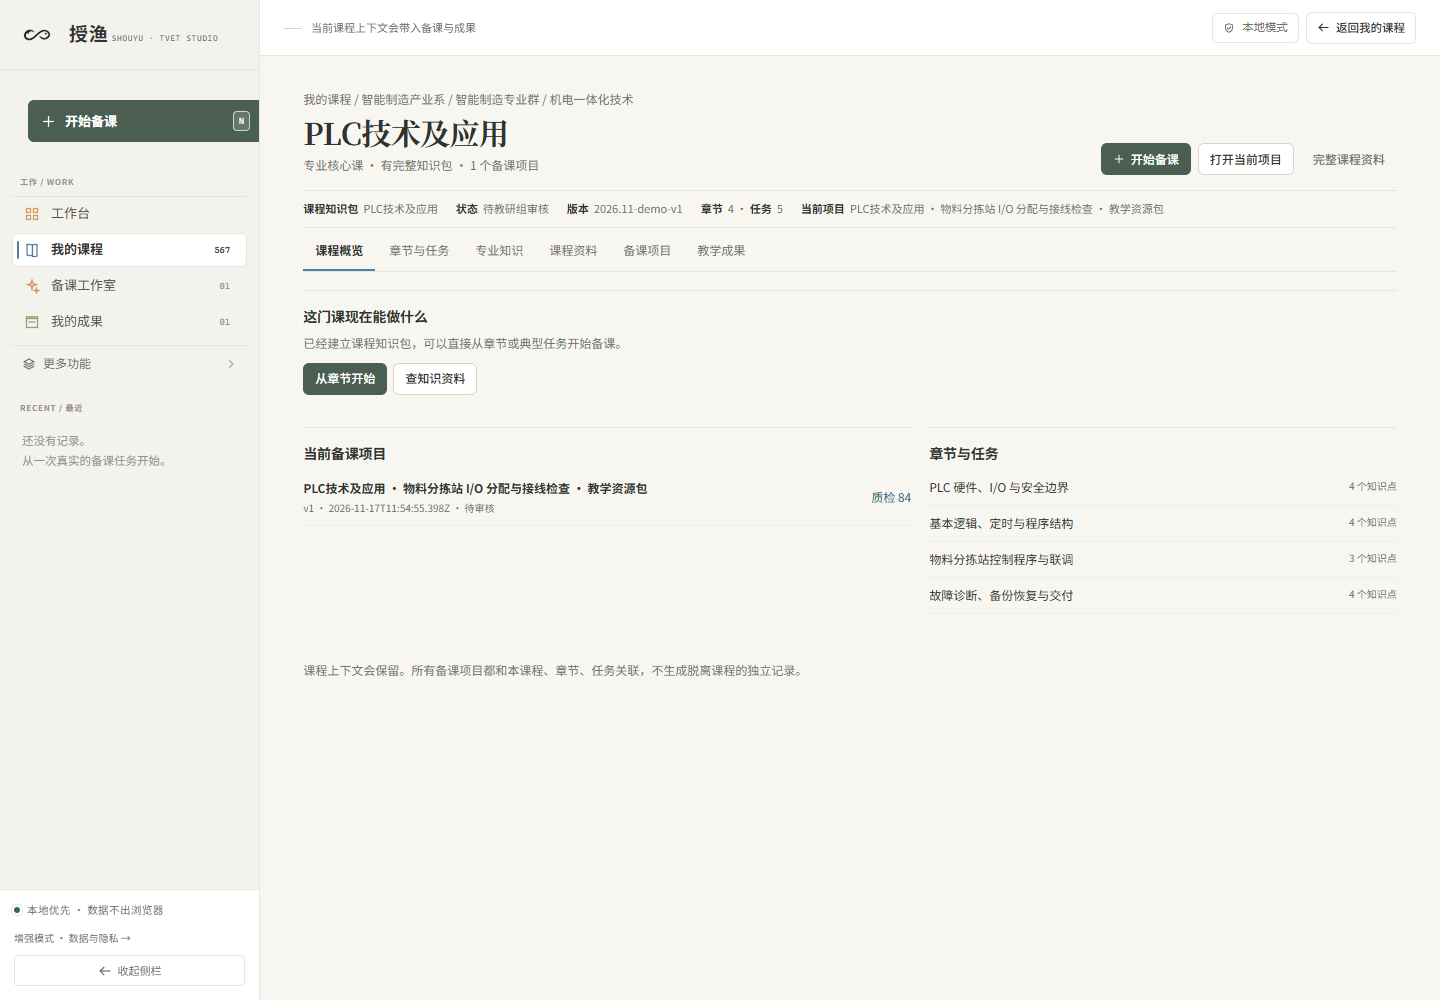
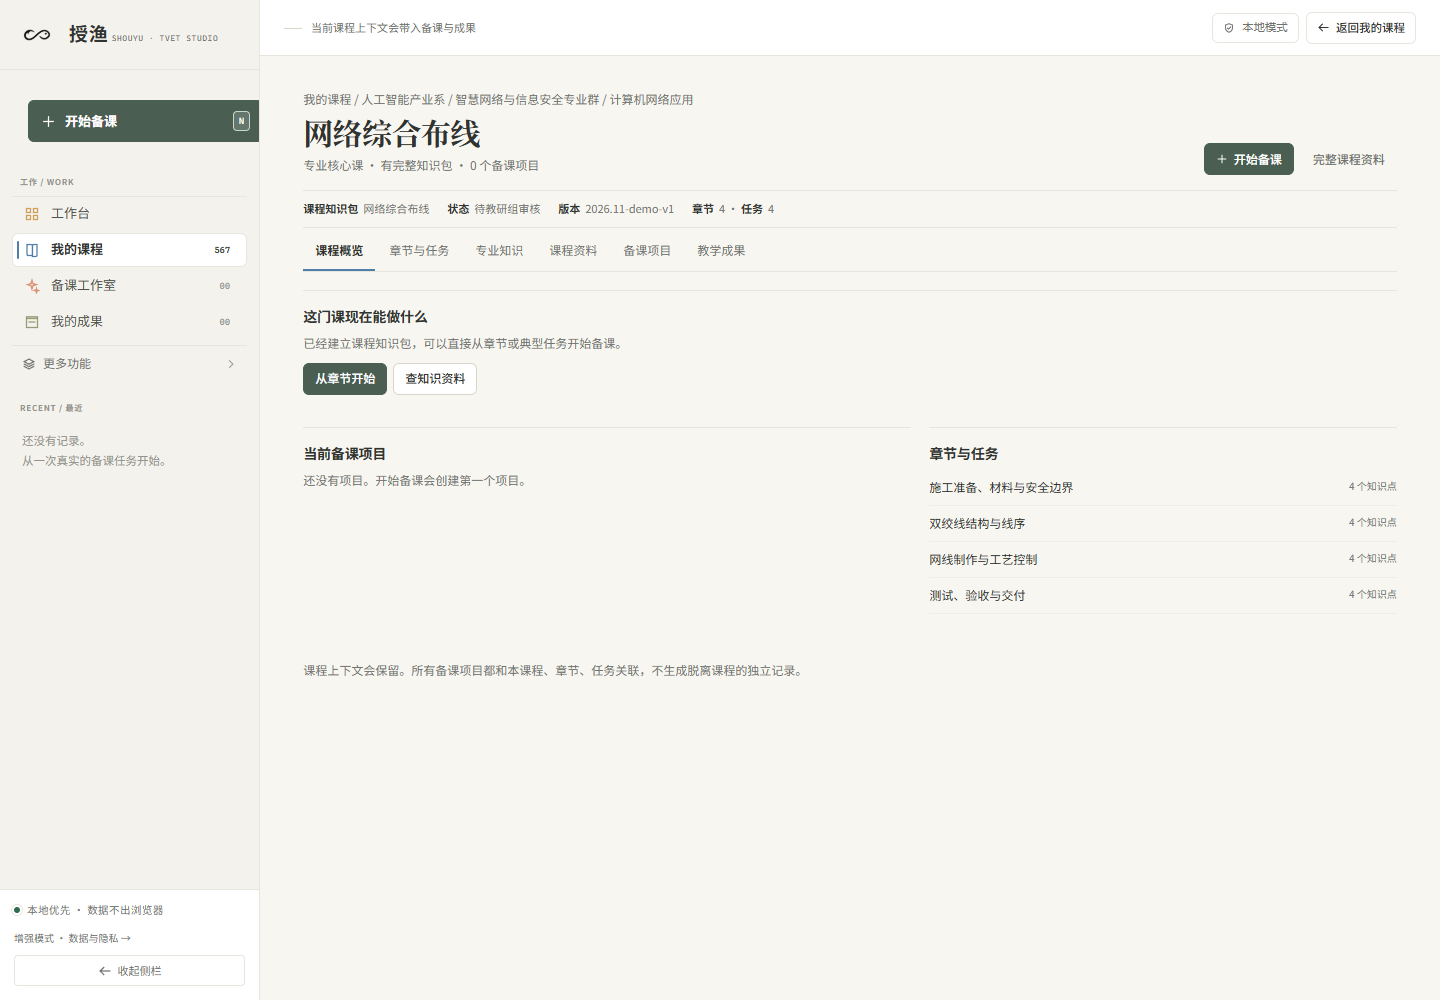
docs: update stage 0 validation and cabling screenshots

diff --git a/docs/screenshots/README.md b/docs/screenshots/README.md
@@ -6,6 +6,7 @@
 |---|---|---|
 | `home.png` | 工作台 | 四个核心导航、继续上次项目、常用课程、单项工具 |
 | `courses.png` | 我的课程 | 课程目录、搜索、教学单位筛选、完整知识包 |
+| `courses-cabling.png` | 我的课程 · 网络综合布线 | 正式名“网络综合布线”，搜索“综合布线”可命中 |
 | `course-workspace.png` | 课程工作空间 | 课程上下文、六个标签、开始备课 |
 | `course-projects.png` | 课程工作空间 · 备课项目 | 项目、质检、版本 |
 | `studio-wizard-step1.png` | 备课第 1 步 | 选专业和课程，不预选 PLC |

diff --git a/docs/阶段0技术验证报告.md b/docs/阶段0技术验证报告.md
@@ -2,7 +2,8 @@
 
 > 日期：2026-11-18  
 > 范围：教材导入与识别、Word/PDF 导出、旧成果兼容、“综合布线 / 网线制作”内容准备、思维导图/PPT 逐步展开  
-> 结论性质：技术可行性验证，不是正式功能上线；本轮未修改公开站点。
+> 结论性质：技术可行性验证，不是完整 V4 产品上线。  
+> 本报告先做本地验证；内容包完成后已随 `f571245` 提交发布，发布提交 `af02e6a`。
 
 ---
 
